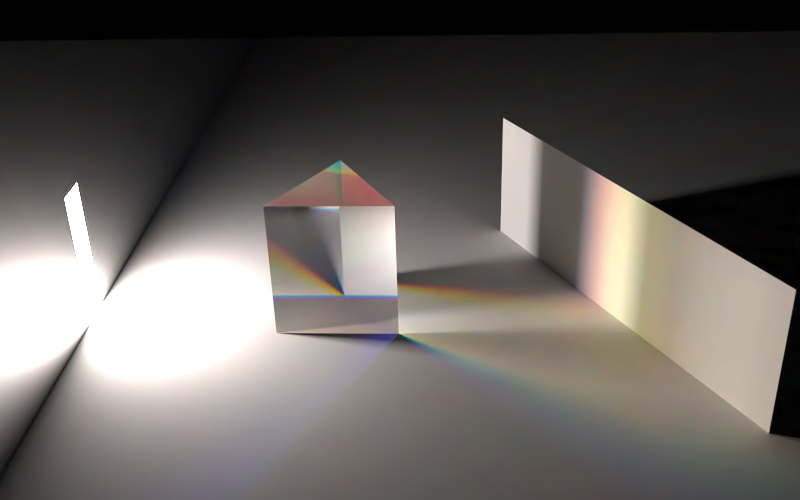
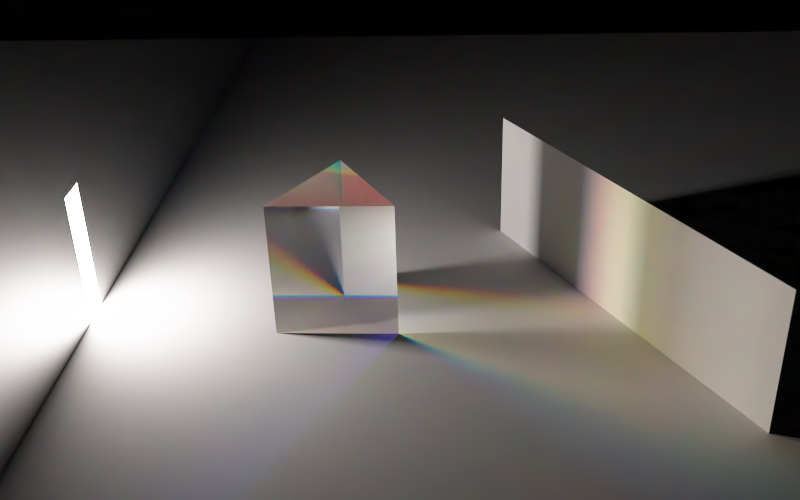
apply tone mapping to teaser

diff --git a/README.md b/README.md
@@ -28,4 +28,4 @@ Run
 toy_exe <the_scene.toml>
 ```
 
-There is a tool `obj2ma` for importing `.obj` file as `.ma` file that can be read by this renderer.
+There is a tool `obj2ma` for importing `.obj` file as `.ma` file which can be read by this renderer.
